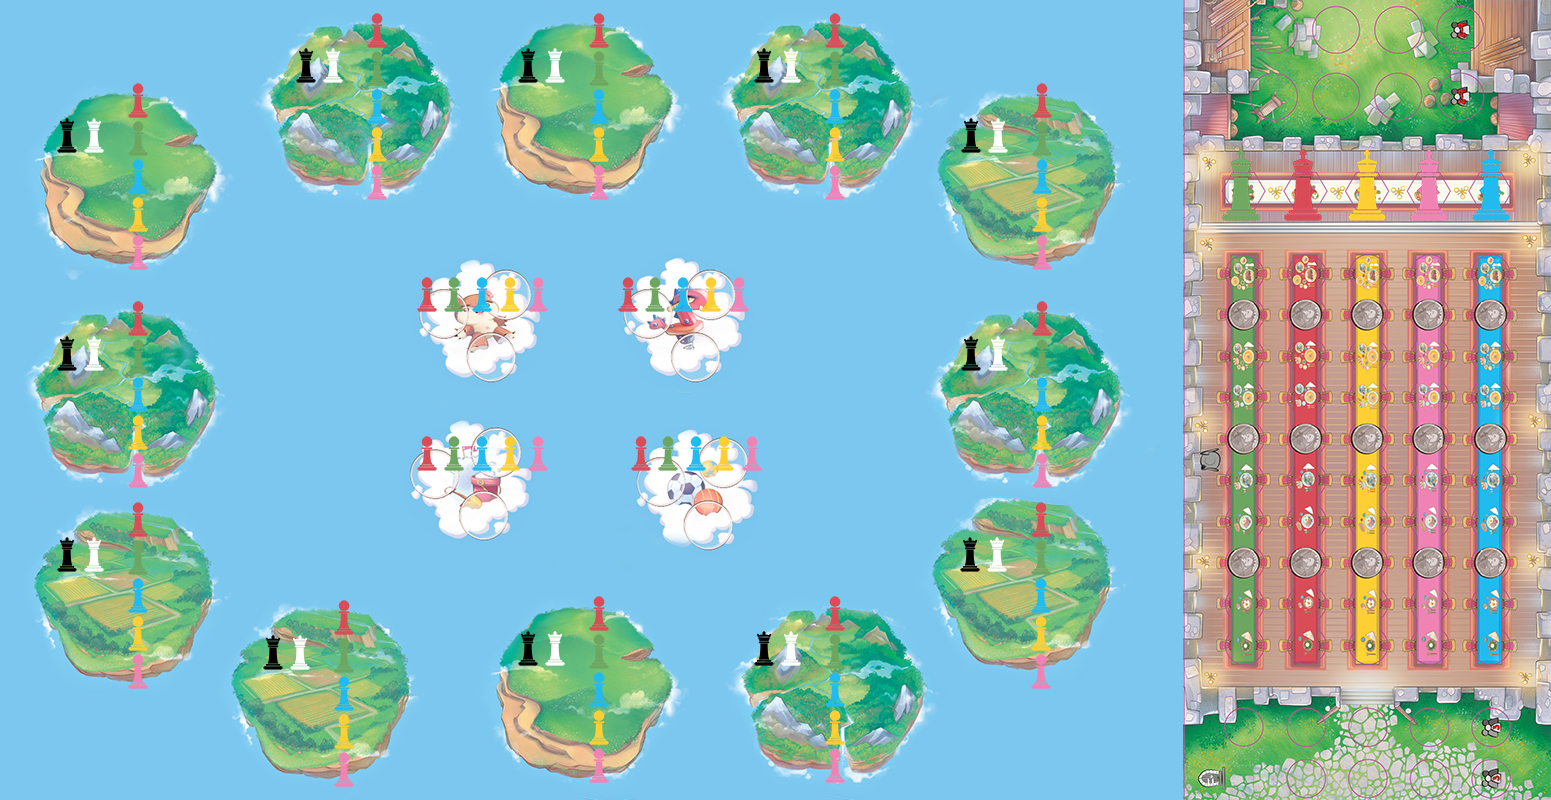
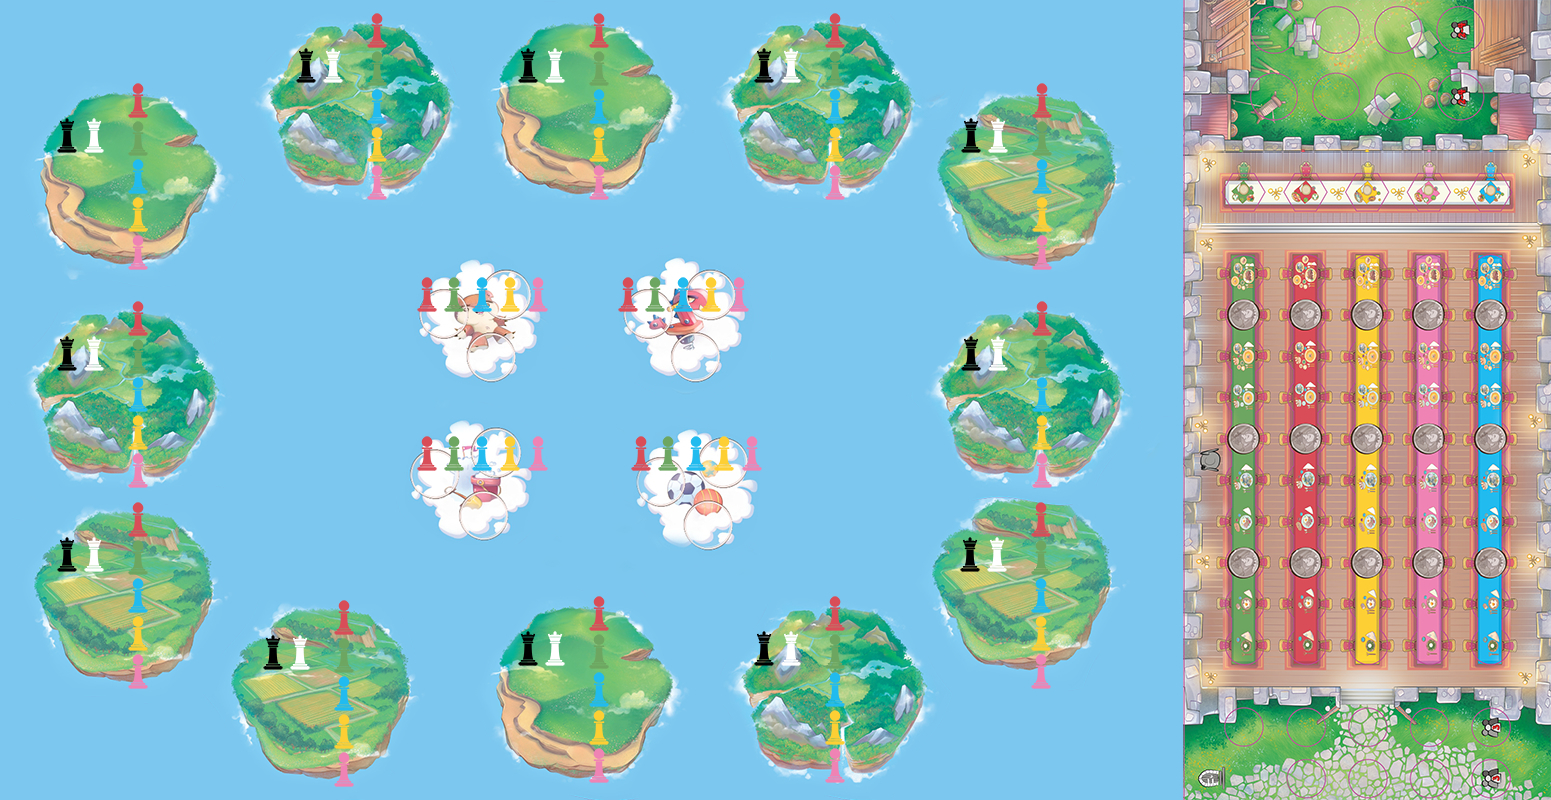
gui improvement professor and emptyIsland

Changed region(s): [[0.7737, 0.1875, 1.0, 0.2812]]

diff --git a/src/main/java/it/polimi/ingsw/view/userinterface/GuiClientInterface.java b/src/main/java/it/polimi/ingsw/view/userinterface/GuiClientInterface.java
@@ -93,6 +93,17 @@ public class GuiClientInterface implements UserInterface, ActionListener {
 
     private final JLabel[] labelAssistantDeck = new JLabel[10];
 
+    private final JLabel[] labelProfessorList=new JLabel[5];
+    private final ImageIcon blueProfessor = new ImageIcon("src/images/blueProfessor.png");
+    private final ImageIcon greenProfessor = new ImageIcon("src/images/greenProfessor.png");
+    private final ImageIcon pinkProfessor = new ImageIcon("src/images/pinkProfessor.png");
+    private final ImageIcon redProfessor = new ImageIcon("src/images/redProfessor.png");
+    private final ImageIcon yellowProfessor = new ImageIcon("src/images/yellowProfessor.png");
+
+    private final JLabel[] labelEmptyIsland=new JLabel[12];
+    private final ImageIcon emptyIsland=new ImageIcon("src/images/emptyIsland.png");
+
+
     /*private final ImageIcon assistant1 = new ImageIcon("src/images/assistant1.jpg");
     private final ImageIcon assistant2 = new ImageIcon("src/images/assistant2.jpg");
     private final ImageIcon assistant3 = new ImageIcon("src/images/assistant3.jpg");
@@ -345,6 +356,42 @@ public class GuiClientInterface implements UserInterface, ActionListener {
 
         buttonsAssistant[9].setBounds(825, 415, 160, 235);
         transparentButton(buttonsAssistant[9]);
+
+        //professors
+        for(int i=0;i<5;i++)
+        {
+            labelProfessorList[i]=new JLabel();
+        }
+        labelProfessorList[0].setIcon(blueProfessor);
+        labelProfessorList[1].setIcon(greenProfessor);
+        labelProfessorList[2].setIcon(pinkProfessor);
+        labelProfessorList[3].setIcon(redProfessor);
+        labelProfessorList[4].setIcon(yellowProfessor);
+
+        labelProfessorList[0].setBounds(1415,135,100,100);
+        labelProfessorList[1].setBounds(1170,135,100,100);
+        labelProfessorList[2].setBounds(1355,135,100,100);
+        labelProfessorList[3].setBounds(1231,135,100,100);
+        labelProfessorList[4].setBounds(1293,135,100,100);
+
+        //emptyIsland
+        for(int i=0;i<12;i++)
+        {
+            labelEmptyIsland[i]=new JLabel();
+            labelEmptyIsland[i].setIcon(emptyIsland);
+        }
+        labelEmptyIsland[0].setBounds(242,-5,235,235);
+        labelEmptyIsland[1].setBounds(468,-15,235,235);
+        labelEmptyIsland[2].setBounds(705,-15,235,235);
+        labelEmptyIsland[3].setBounds(910,55,235,235);
+        labelEmptyIsland[11].setBounds(11,60,235,235);
+        labelEmptyIsland[10].setBounds(11,280,235,235);
+        labelEmptyIsland[4].setBounds(910,280,235,235);
+        labelEmptyIsland[5].setBounds(910,480,235,235);
+        labelEmptyIsland[9].setBounds(11,480,235,235);
+        labelEmptyIsland[8].setBounds(212,580,235,235);
+        labelEmptyIsland[7].setBounds(468,580,235,235);
+        labelEmptyIsland[6].setBounds(707,580,235,235);
 
         //counters
         for(int i = 0; i < 12; i++){
@@ -1328,6 +1375,11 @@ public class GuiClientInterface implements UserInterface, ActionListener {
 
             frameGame.add(labelBackgroundCards);
 
+            for(int i=0;i<12;i++){
+                frameGame.add(labelEmptyIsland[i]);
+                labelEmptyIsland[i].setVisible(false);
+            }
+
             frameGame.add(buttonsSelectCloud[0]);
             frameGame.add(buttonsSelectCloud[1]);
             frameGame.add(buttonsSelectCloud[2]);
@@ -1339,6 +1391,11 @@ public class GuiClientInterface implements UserInterface, ActionListener {
                 frameGame.add(labelPinkHallList[i]);
                 frameGame.add(labelRedHallList[i]);
                 frameGame.add(labelYellowHallList[i]);
+            }
+
+            for(int i=0;i<5;i++)
+            {
+                frameGame.add(labelProfessorList[i]);
             }
 
             for(int i=0;i<12;i++){
